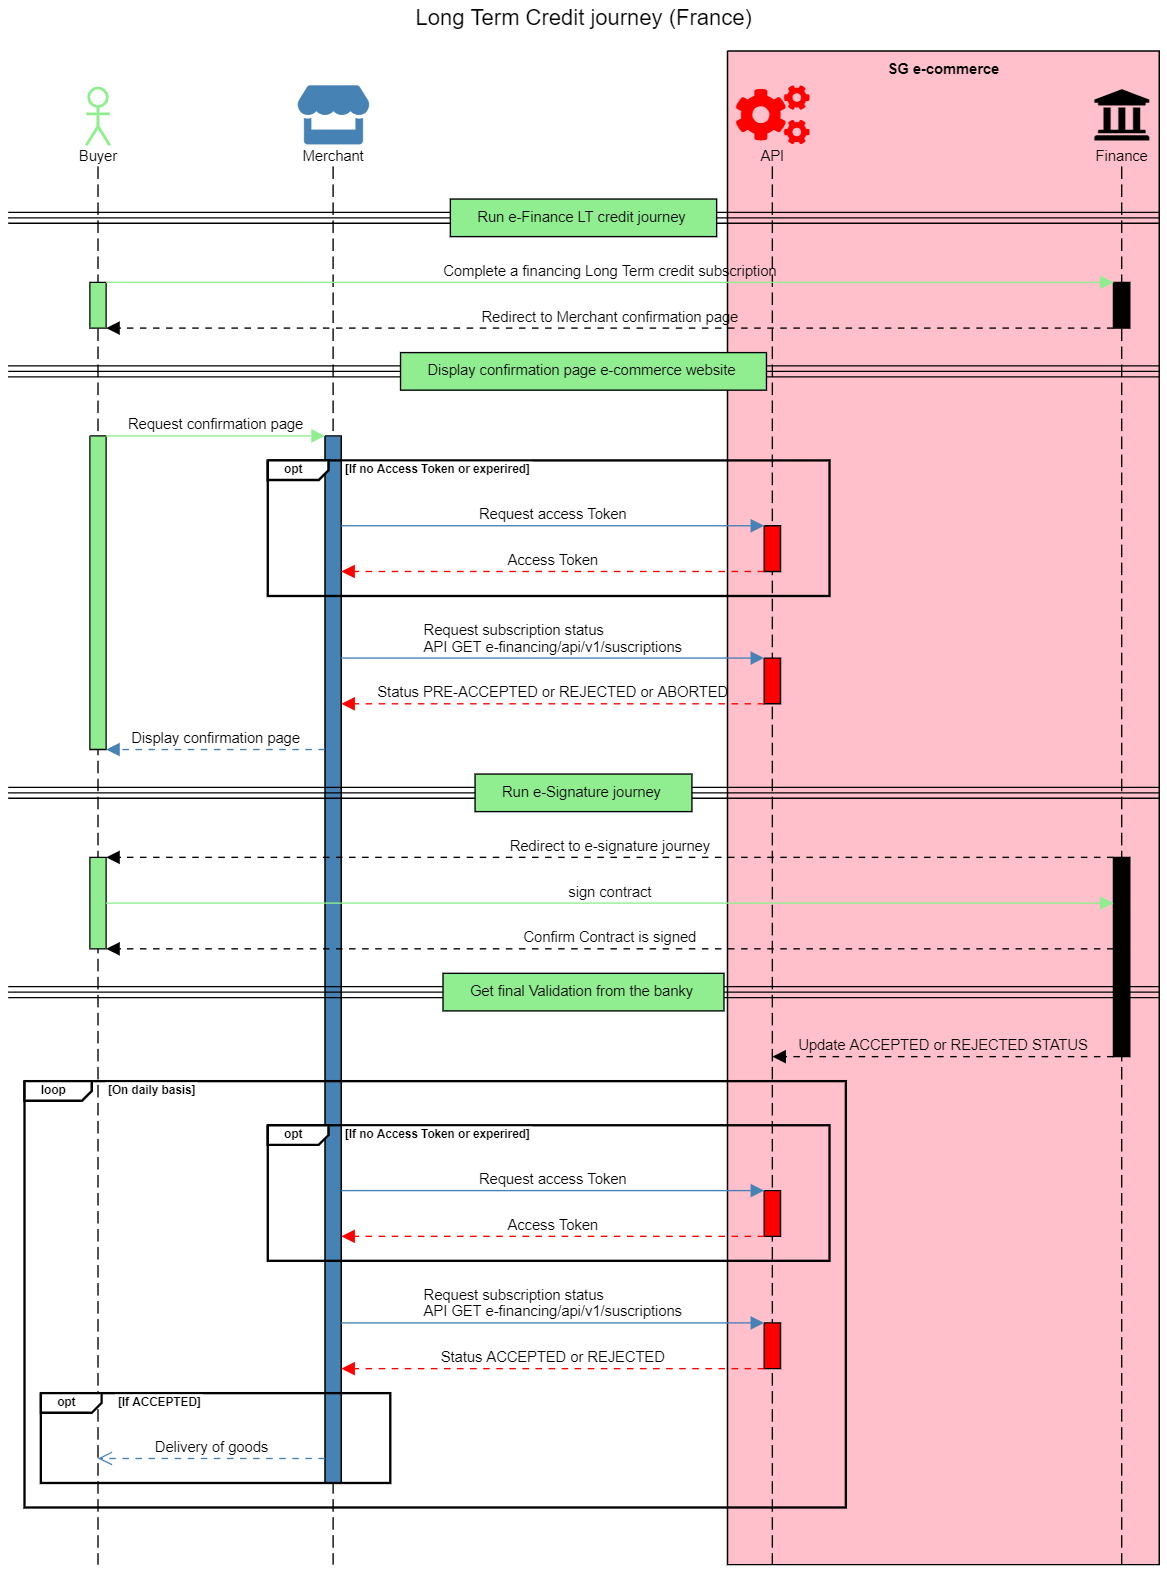
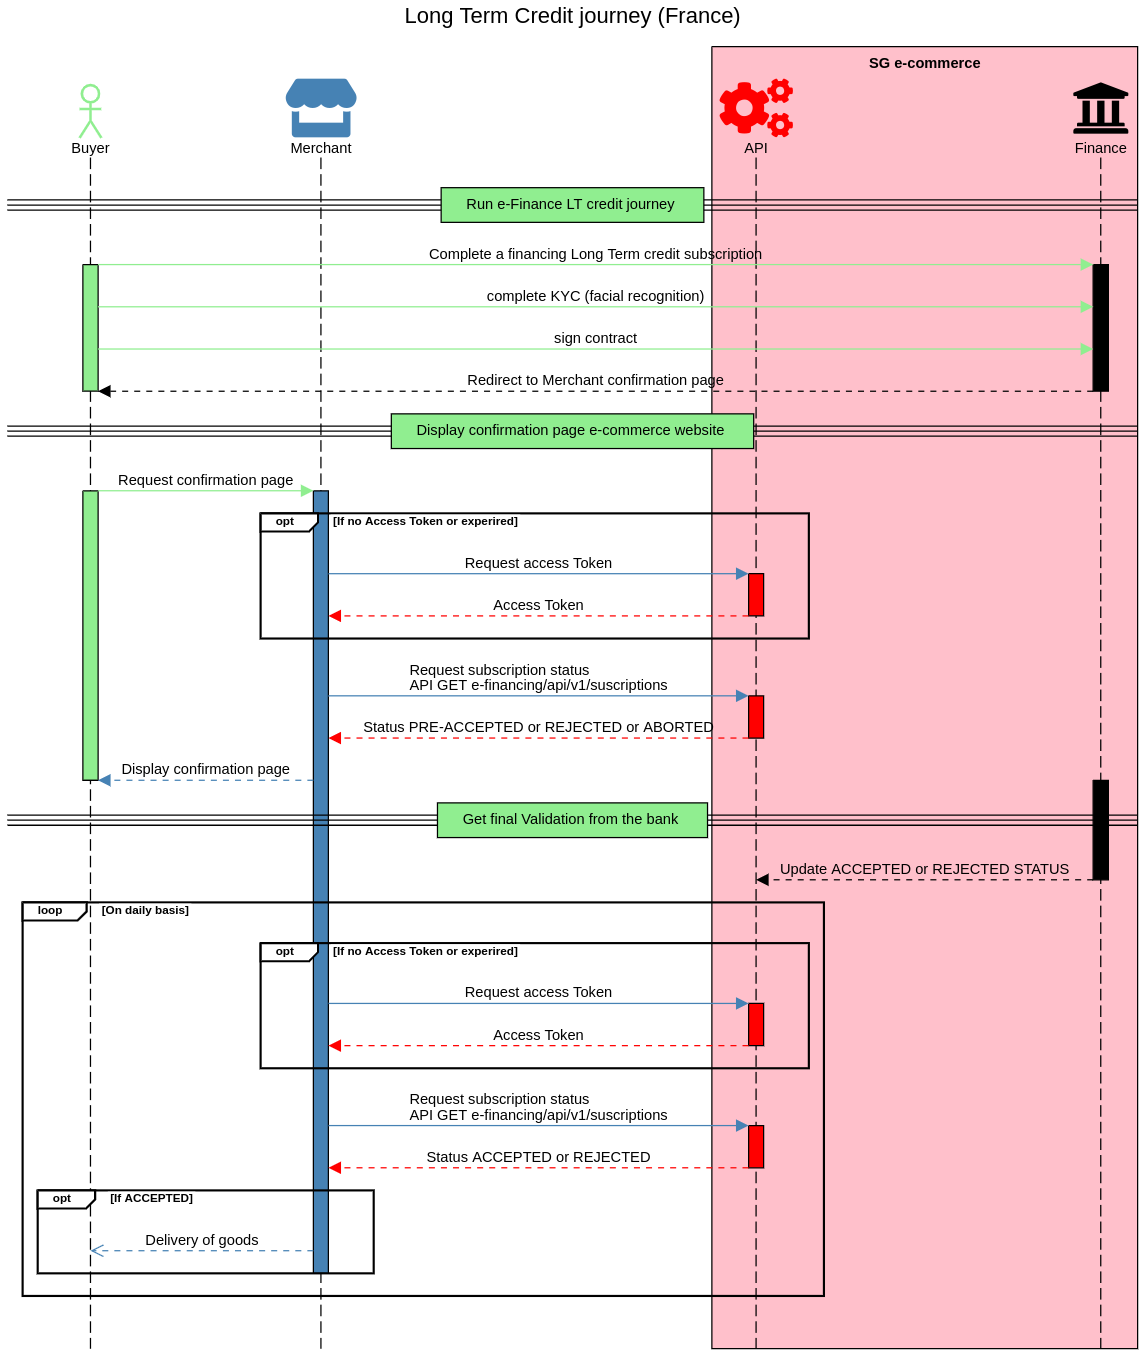
GITBOOK-402: change request with no subject merged in GitBook

Changed region(s): [[0.0, 0.0, 1.0, 1.0]]

diff --git a/for-discovery/credit/long-term-credit-journey-france.md b/for-discovery/credit/long-term-credit-journey-france.md
@@ -13,11 +13,9 @@ Long Term e-financing credit solution is proposed by FRANFINANCE subsidiary For 
 {% endhint %}
 
 1. e-Financing Long Term Credit journey for French buyers \
-   This step is executed by the producer (FRANFINANCE). This journey is a few screens credit experience of which the buyer will complete its credit application before getting a pre-acceptation from the bank.\
-
+   This step is executed by the producer (FRANFINANCE). This journey consist of a few screens credit experience of which the buyer will complete its credit application including KYC and contract signature before getting a pre-acceptation from the bank.&#x20;
 2. Confirmation page on e-commerce website\
-   After pre-acceptation from the bank, the buyer will be redirected on the e-merchant confirmation e-website page. The merchant will have to access the [`GET credit/v1/subscriptions/{creditSubscriptionId} API`](../../api-reference/e-financing-api/) in order to get the resulting status. The status could be either PRE-ACCEPTED or REJECTED (cf. attribute field "consolidatedStatus").&#x20;
-3. When Status is PRE-ACCEPTED, the buyer will be redirected to the KYC and e-signature journey managed by a bank partner (WEBID).&#x20;
-4. Since contract is signed, the bank will confirm final acceptation. On daily basis the merchant will have to access the [`GET credit/v1/subscriptions/{creditSubscriptionId} API`](../../api-reference/e-financing-api/) in order to get the resulting status. The status could be either ACCEPTED or REJECTED. If ACCEPTED the merchant can deliver the goods to the buyer.
+   After pre-acceptation from the bank, the buyer will be redirected on the e-merchant confirmation e-website page. The merchant will have to access the [`GET credit/v1/subscriptions/{creditSubscriptionId} API`](../../api-reference/e-financing-api/) in order to get the status. The status could be either PRE-ACCEPTED or REJECTED (cf.  [status life cycle](e-financing-status-life-cycle.md)).&#x20;
+3. Since contract is signed, the bank will confirm final acceptation. On daily basis the merchant will have to access with [`GET credit/v1/subscriptions/{creditSubscriptionId} API`](../../api-reference/e-financing-api/) in order to get the final status. The status could be either ACCEPTED or REJECTED. If ACCEPTED the merchant can deliver the goods to the buyer.
 
 <figure><img src="../../.gitbook/assets/Long Term Credit journey (France).png" alt=""><figcaption><p>LT credit France</p></figcaption></figure>
